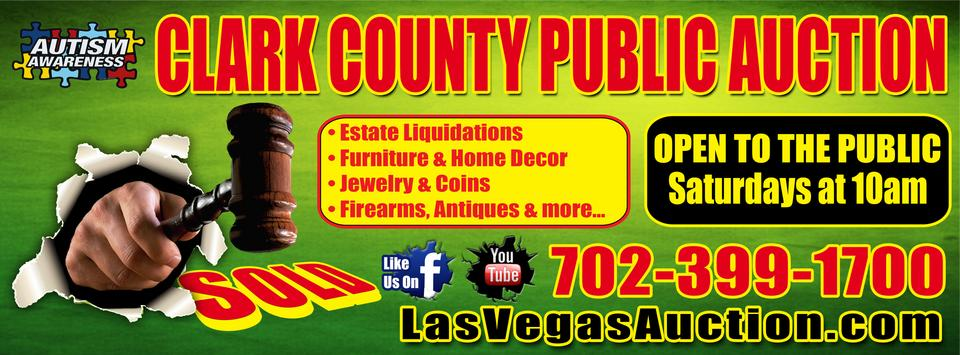
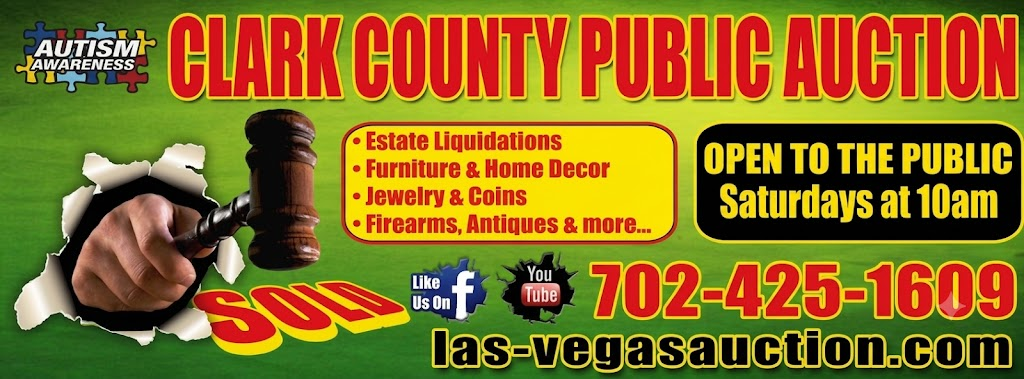
Add files via upload

diff --git a/index.html b/index.html
@@ -37,7 +37,7 @@
             content="Weekly On-line &amp; Live Public Las Vegas Auctions. Estate Liquidations, Trade Show Floor Samples, Antiques, Jewelry, Gold &amp; Silver Coins, Tools, Etc., at Clark County Public Auction."
         />
 
-
+        <link rel="shortcut icon" href="./12.jpg">
     </head>
     <body>
         <style data-inline-fonts="">
@@ -2086,8 +2086,8 @@
                                                                 font-size: 14px;
                                                             "
                                                             ><b
-                                                                >Saturday, June
-                                                                6th at
+                                                                >July
+                                                                28th at
                                                                 10:00am</b
                                                             ></span
                                                         >
@@ -2125,8 +2125,9 @@
                                                                 style="
                                                                     font-size: 14px;
                                                                 "
-                                                                >Friday,
-                                                                June&nbsp;5th&nbsp;from
+                                                                >
+                                                                
+                                                                Yuly&nbsp;24th&nbsp;from
                                                                 10:00am-4:00pm</span
                                                             >
                                                         </p>
@@ -2164,8 +2165,8 @@
                                                                 style="
                                                                     font-size: 14px;
                                                                 "
-                                                                >Monday, June
-                                                                8th&nbsp;from
+                                                                >July
+                                                                30th&nbsp;from
                                                                 9:00am-4:00pm</span
                                                             ><br />
                                                         </p>
@@ -2174,8 +2175,8 @@
                                                                 style="
                                                                     font-size: 14px;
                                                                 "
-                                                                >Tuesday, June
-                                                                9th from
+                                                                >July
+                                                                31th from
                                                                 9:00am-4:00pm</span
                                                             ><br />
                                                         </p>
@@ -2591,8 +2592,8 @@
                                                                 font-size: 14px;
                                                             "
                                                             ><b
-                                                                >Saturday, June
-                                                                13th at
+                                                                >July
+                                                                27th at
                                                                 10:00am</b
                                                             ></span
                                                         >
@@ -2630,8 +2631,8 @@
                                                                 style="
                                                                     font-size: 14px;
                                                                 "
-                                                                >Friday, June
-                                                                12th from
+                                                                >July
+                                                                31th from
                                                                 9:00am-3:00pm</span
                                                             >
                                                         </p>
@@ -2669,8 +2670,8 @@
                                                                 style="
                                                                     font-size: 14px;
                                                                 "
-                                                                >Monday, June
-                                                                15th&nbsp;from
+                                                                >Monday, Yuly
+                                                                29th&nbsp;from
                                                                 9:00am-4:00pm</span
                                                             ><br />
                                                         </p>
@@ -3097,8 +3098,8 @@
                                                                 font-size: 14px;
                                                             "
                                                             ><b
-                                                                >Sunday, June
-                                                                7th at
+                                                                >July
+                                                                29th at
                                                                 12:00pm</b
                                                             ></span
                                                         >
@@ -3136,8 +3137,8 @@
                                                                 style="
                                                                     font-size: 14px;
                                                                 "
-                                                                >Friday,
-                                                                June&nbsp;5th&nbsp;from
+                                                                >
+                                                                July&nbsp;30th&nbsp;from
                                                                 10:00am-4:00pm</span
                                                             >
                                                         </p>
@@ -3175,8 +3176,8 @@
                                                                 style="
                                                                     font-size: 14px;
                                                                 "
-                                                                >Monday, June
-                                                                8th&nbsp;from
+                                                                >July
+                                                                30th&nbsp;from
                                                                 9:00am-4:00pm</span
                                                             ><br />
                                                         </p>
@@ -3628,8 +3629,8 @@
                                                                 font-size: 14px;
                                                             "
                                                             ><b
-                                                                >Thursday, June
-                                                                11th at
+                                                                >July
+                                                                23th at
                                                                 4:00pm</b
                                                             ></span
                                                         >
@@ -3667,8 +3668,8 @@
                                                                 style="
                                                                     font-size: 14px;
                                                                 "
-                                                                >Thursday, June
-                                                                11th from
+                                                                >July
+                                                                22th from
                                                                 9:00am-3:00pm</span
                                                             >
                                                         </p>
@@ -3706,8 +3707,8 @@
                                                                 style="
                                                                     font-size: 14px;
                                                                 "
-                                                                >Friday, June
-                                                                12th&nbsp;from
+                                                                >July
+                                                                21th&nbsp;from
                                                                 9:00am-4:00pm</span
                                                             ><br />
                                                         </p>
@@ -4158,8 +4159,8 @@
                                                                 font-size: 14px;
                                                             "
                                                             ><b
-                                                                >Sunday, June
-                                                                14th at
+                                                                >July
+                                                                31th at
                                                                 10:00am</b
                                                             ></span
                                                         >
@@ -4197,8 +4198,8 @@
                                                                 style="
                                                                     font-size: 14px;
                                                                 "
-                                                                >Friday, June
-                                                                12th from
+                                                                >July
+                                                                27th from
                                                                 9:00am-3:00pm</span
                                                             >
                                                         </p>
@@ -4236,8 +4237,8 @@
                                                                 style="
                                                                     font-size: 14px;
                                                                 "
-                                                                >Monday, June
-                                                                15th&nbsp;from
+                                                                >July
+                                                                19th&nbsp;from
                                                                 9:00am-4:00pm</span
                                                             ><br />
                                                         </p>
@@ -4823,7 +4824,7 @@
                         >
                             <div class="txt">
                                 <h2 class="editor_h1" style="text-align: right">
-                                    (702) 399 1700<br />
+                                    (702) 425 1609<br />
                                 </h2>
                                 <h6 style="text-align: right">
                                     <span style="line-height: 1.6"
@@ -4944,8 +4945,8 @@
                                                                 font-size: 14px;
                                                             "
                                                             ><b
-                                                                >Saturday, June
-                                                                13th at
+                                                                >July
+                                                                29th at
                                                                 6:00pm</b
                                                             ></span
                                                         >
@@ -4983,8 +4984,8 @@
                                                                 style="
                                                                     font-size: 14px;
                                                                 "
-                                                                >Friday, June
-                                                                12th from
+                                                                >July
+                                                                31th from
                                                                 9:00am-3:00pm</span
                                                             >
                                                         </p>
@@ -5022,7 +5023,7 @@
                                                                 style="
                                                                     font-size: 14px;
                                                                 "
-                                                                >Monday, June
+                                                                >July
                                                                 15th&nbsp;from
                                                                 9:00am-4:00pm</span
                                                             ><br />
@@ -5494,8 +5495,8 @@
                                                                 font-size: 14px;
                                                             "
                                                             ><b
-                                                                >Wednesday, June
-                                                                10th at
+                                                                >July
+                                                                31th at
                                                                 4:00pm</b
                                                             ></span
                                                         >
@@ -5533,8 +5534,8 @@
                                                                 style="
                                                                     font-size: 14px;
                                                                 "
-                                                                >Wednesday, June
-                                                                10th from
+                                                                >July
+                                                                18th from
                                                                 9:00am-3:00pm</span
                                                             >
                                                         </p>
@@ -5572,8 +5573,8 @@
                                                                 style="
                                                                     font-size: 14px;
                                                                 "
-                                                                >Thursday, June
-                                                                11th&nbsp;from
+                                                                >July
+                                                                21th&nbsp;from
                                                                 9:00am-4:00pm</span
                                                             ><br />
                                                         </p>

diff --git a/location.html b/location.html
@@ -2,6 +2,7 @@
 
 <html lang="en" dir="ltr" data-tcc-ignore="">
     <head>
+        <link rel="shortcut icon" href="./12.jpg">
         <style>
             .LGLeeN-keyboard-shortcuts-view {
                 display: -webkit-box;
@@ -1953,7 +1954,7 @@
                         >
                             <div class="txt">
                                 <h2 class="editor_h1" style="text-align: right">
-                                    (702) 399 1700<br />
+                                    (702) 425 1609<br />
                                 </h2>
                                 <h6 style="text-align: right">
                                     <span style="line-height: 1.6"
@@ -2088,19 +2089,14 @@
                                 <p>
                                     <span style="font-size: 24px"
                                         ><strong>Phone:</strong> (702)
-                                        399-1700</span
+                                        425-1609</span
                                     ><br />
                                 </p>
-                                <p>
-                                    <span style="font-size: 24px"
-                                        ><strong>Fax Number:</strong> (702)
-                                        399-9614</span
-                                    ><br />
-                                </p>
+                 
                                 <p>
                                     <span style="font-size: 24px"
                                         ><strong>Email:</strong>
-                                        [email redacted]</span
+                                        [email redacted]</span
                                     ><br />
                                 </p>
                             </div>

diff --git a/pictures.html b/pictures.html
@@ -9,7 +9,7 @@
         <meta http-equiv="X-UA-Compatible" content="IE=edge,chrome=1" />
         <link rel="stylesheet" type="text/css" href="site.css?v=" />
 
-
+        <link rel="shortcut icon" href="./12.jpg">
         <meta http-equiv="Content-Location" content="pictures.html" />
         <meta
             name="generator"
@@ -1694,7 +1694,7 @@
                         >
                             <div class="txt">
                                 <h2 class="editor_h1" style="text-align: right">
-                                    (702) 399 1700<br />
+                                    (702) 425 1609<br />
                                 </h2>
                                 <h6 style="text-align: right">
                                     <span style="line-height: 1.6"
@@ -1861,7 +1861,7 @@
                                                             style="
                                                                 font-size: 14px;
                                                             "
-                                                            >Friday, Nov. 15th -
+                                                            >july. 15th -
                                                             10:00am-4:00pm<br
                                                         /></span>
                                                     </td>
@@ -1897,7 +1897,7 @@
                                                             style="
                                                                 font-size: 14px;
                                                             "
-                                                            >Monday, Nov. 18th
+                                                            > Nov. 18th
                                                             -&nbsp;9am-4pm</span
                                                         ><br />
                                                     </td>